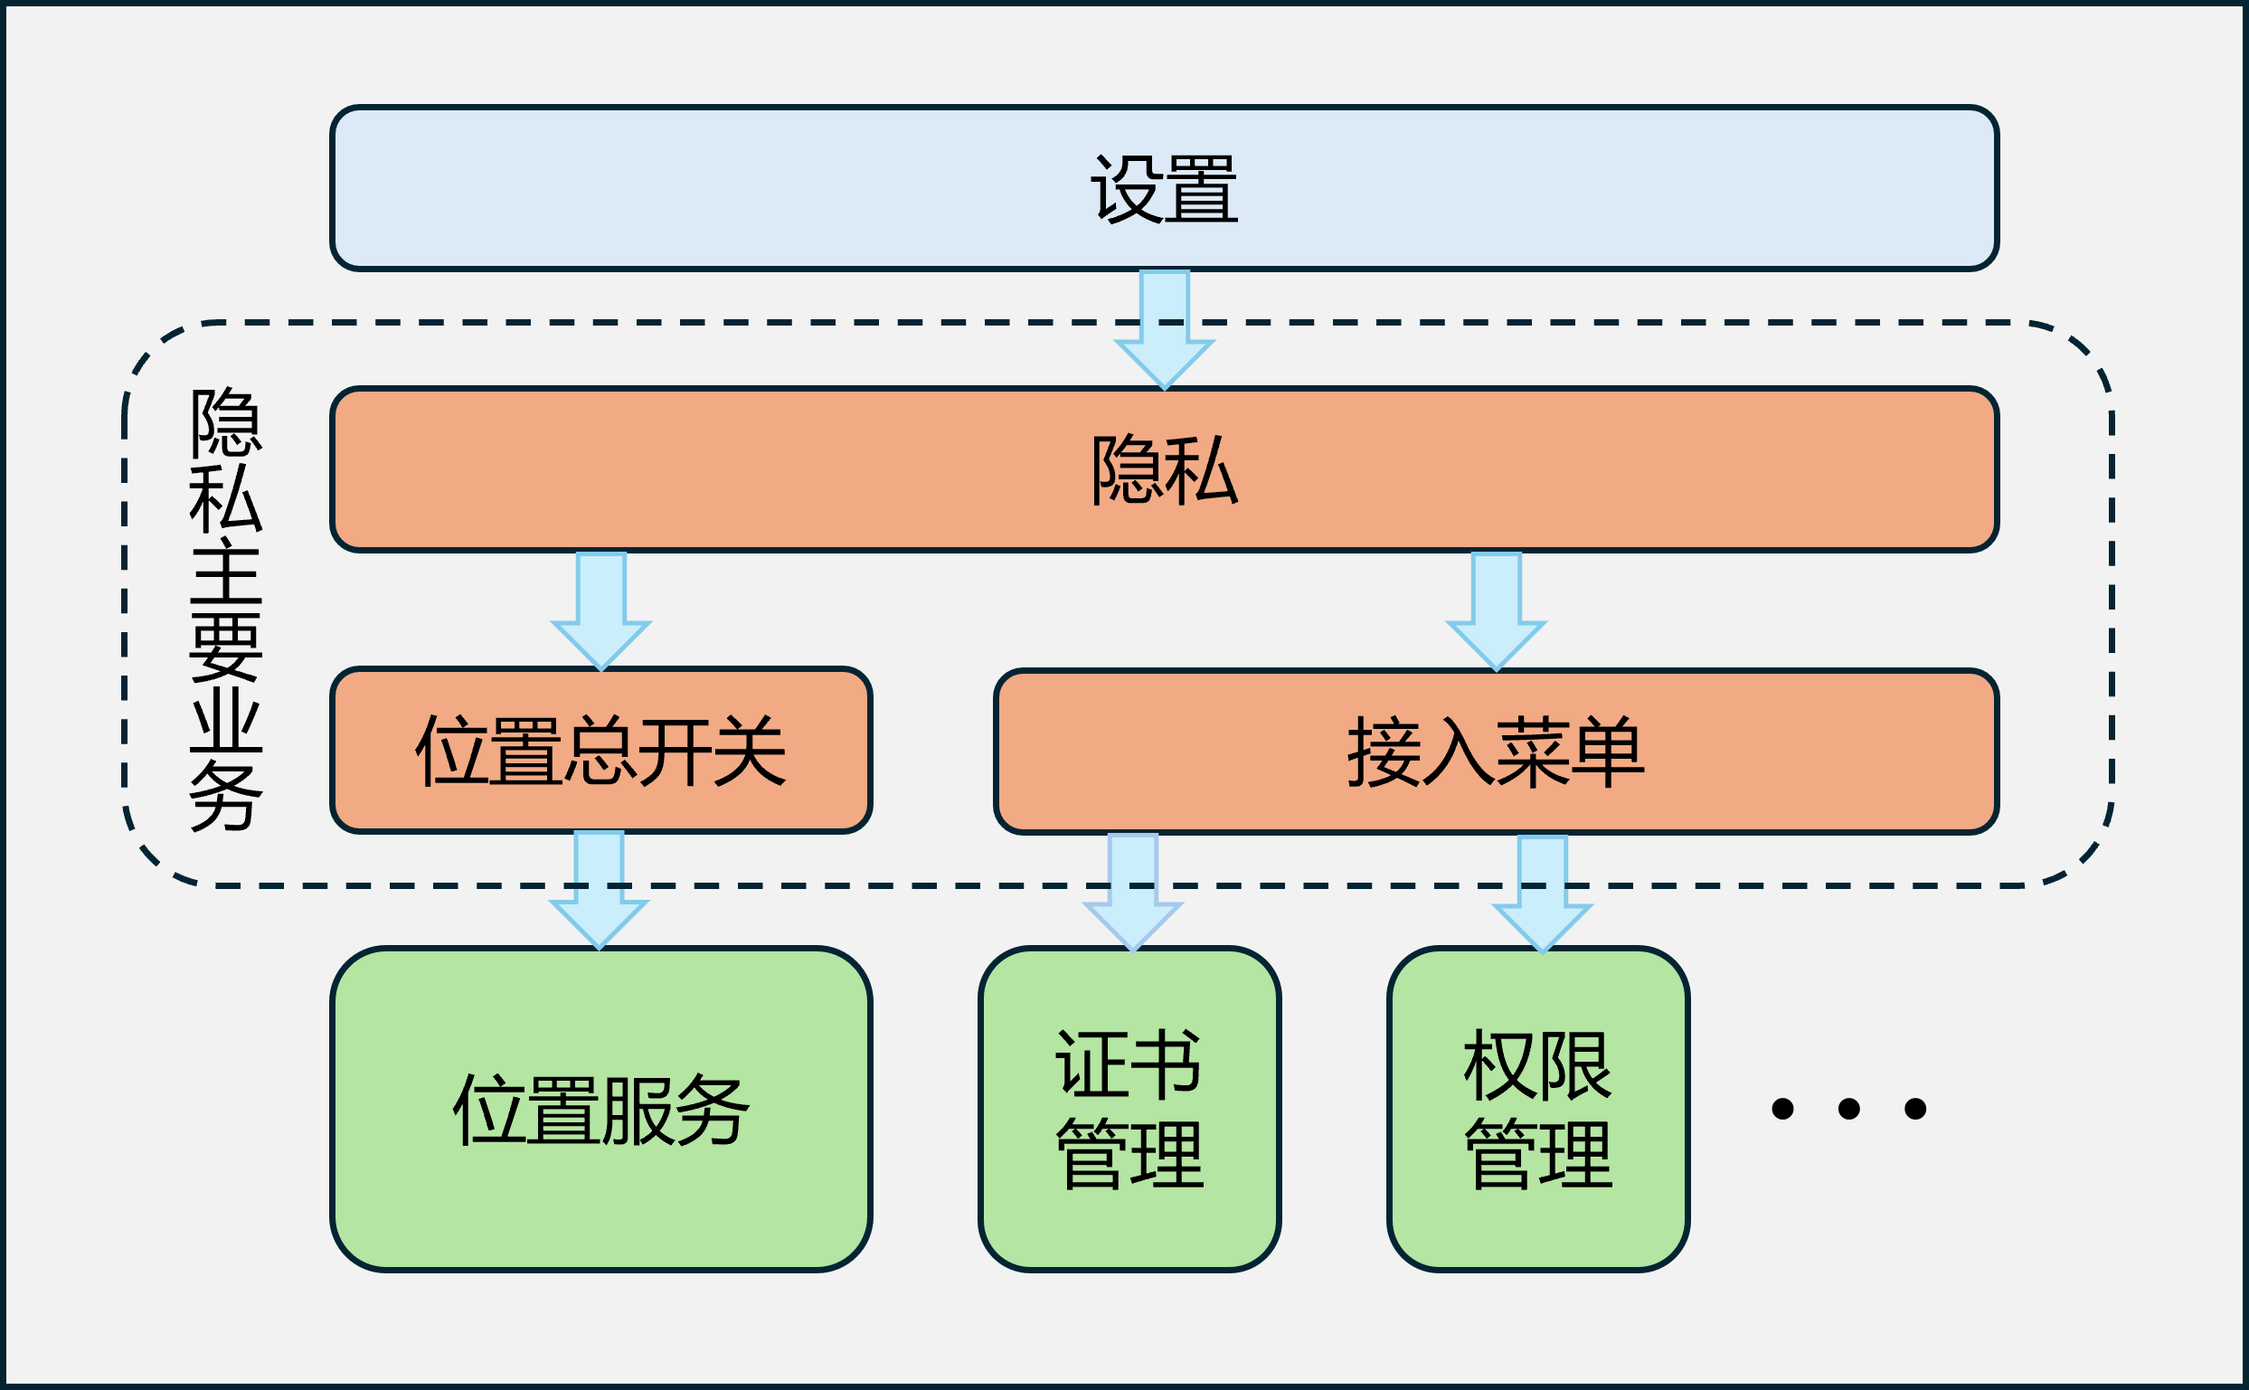
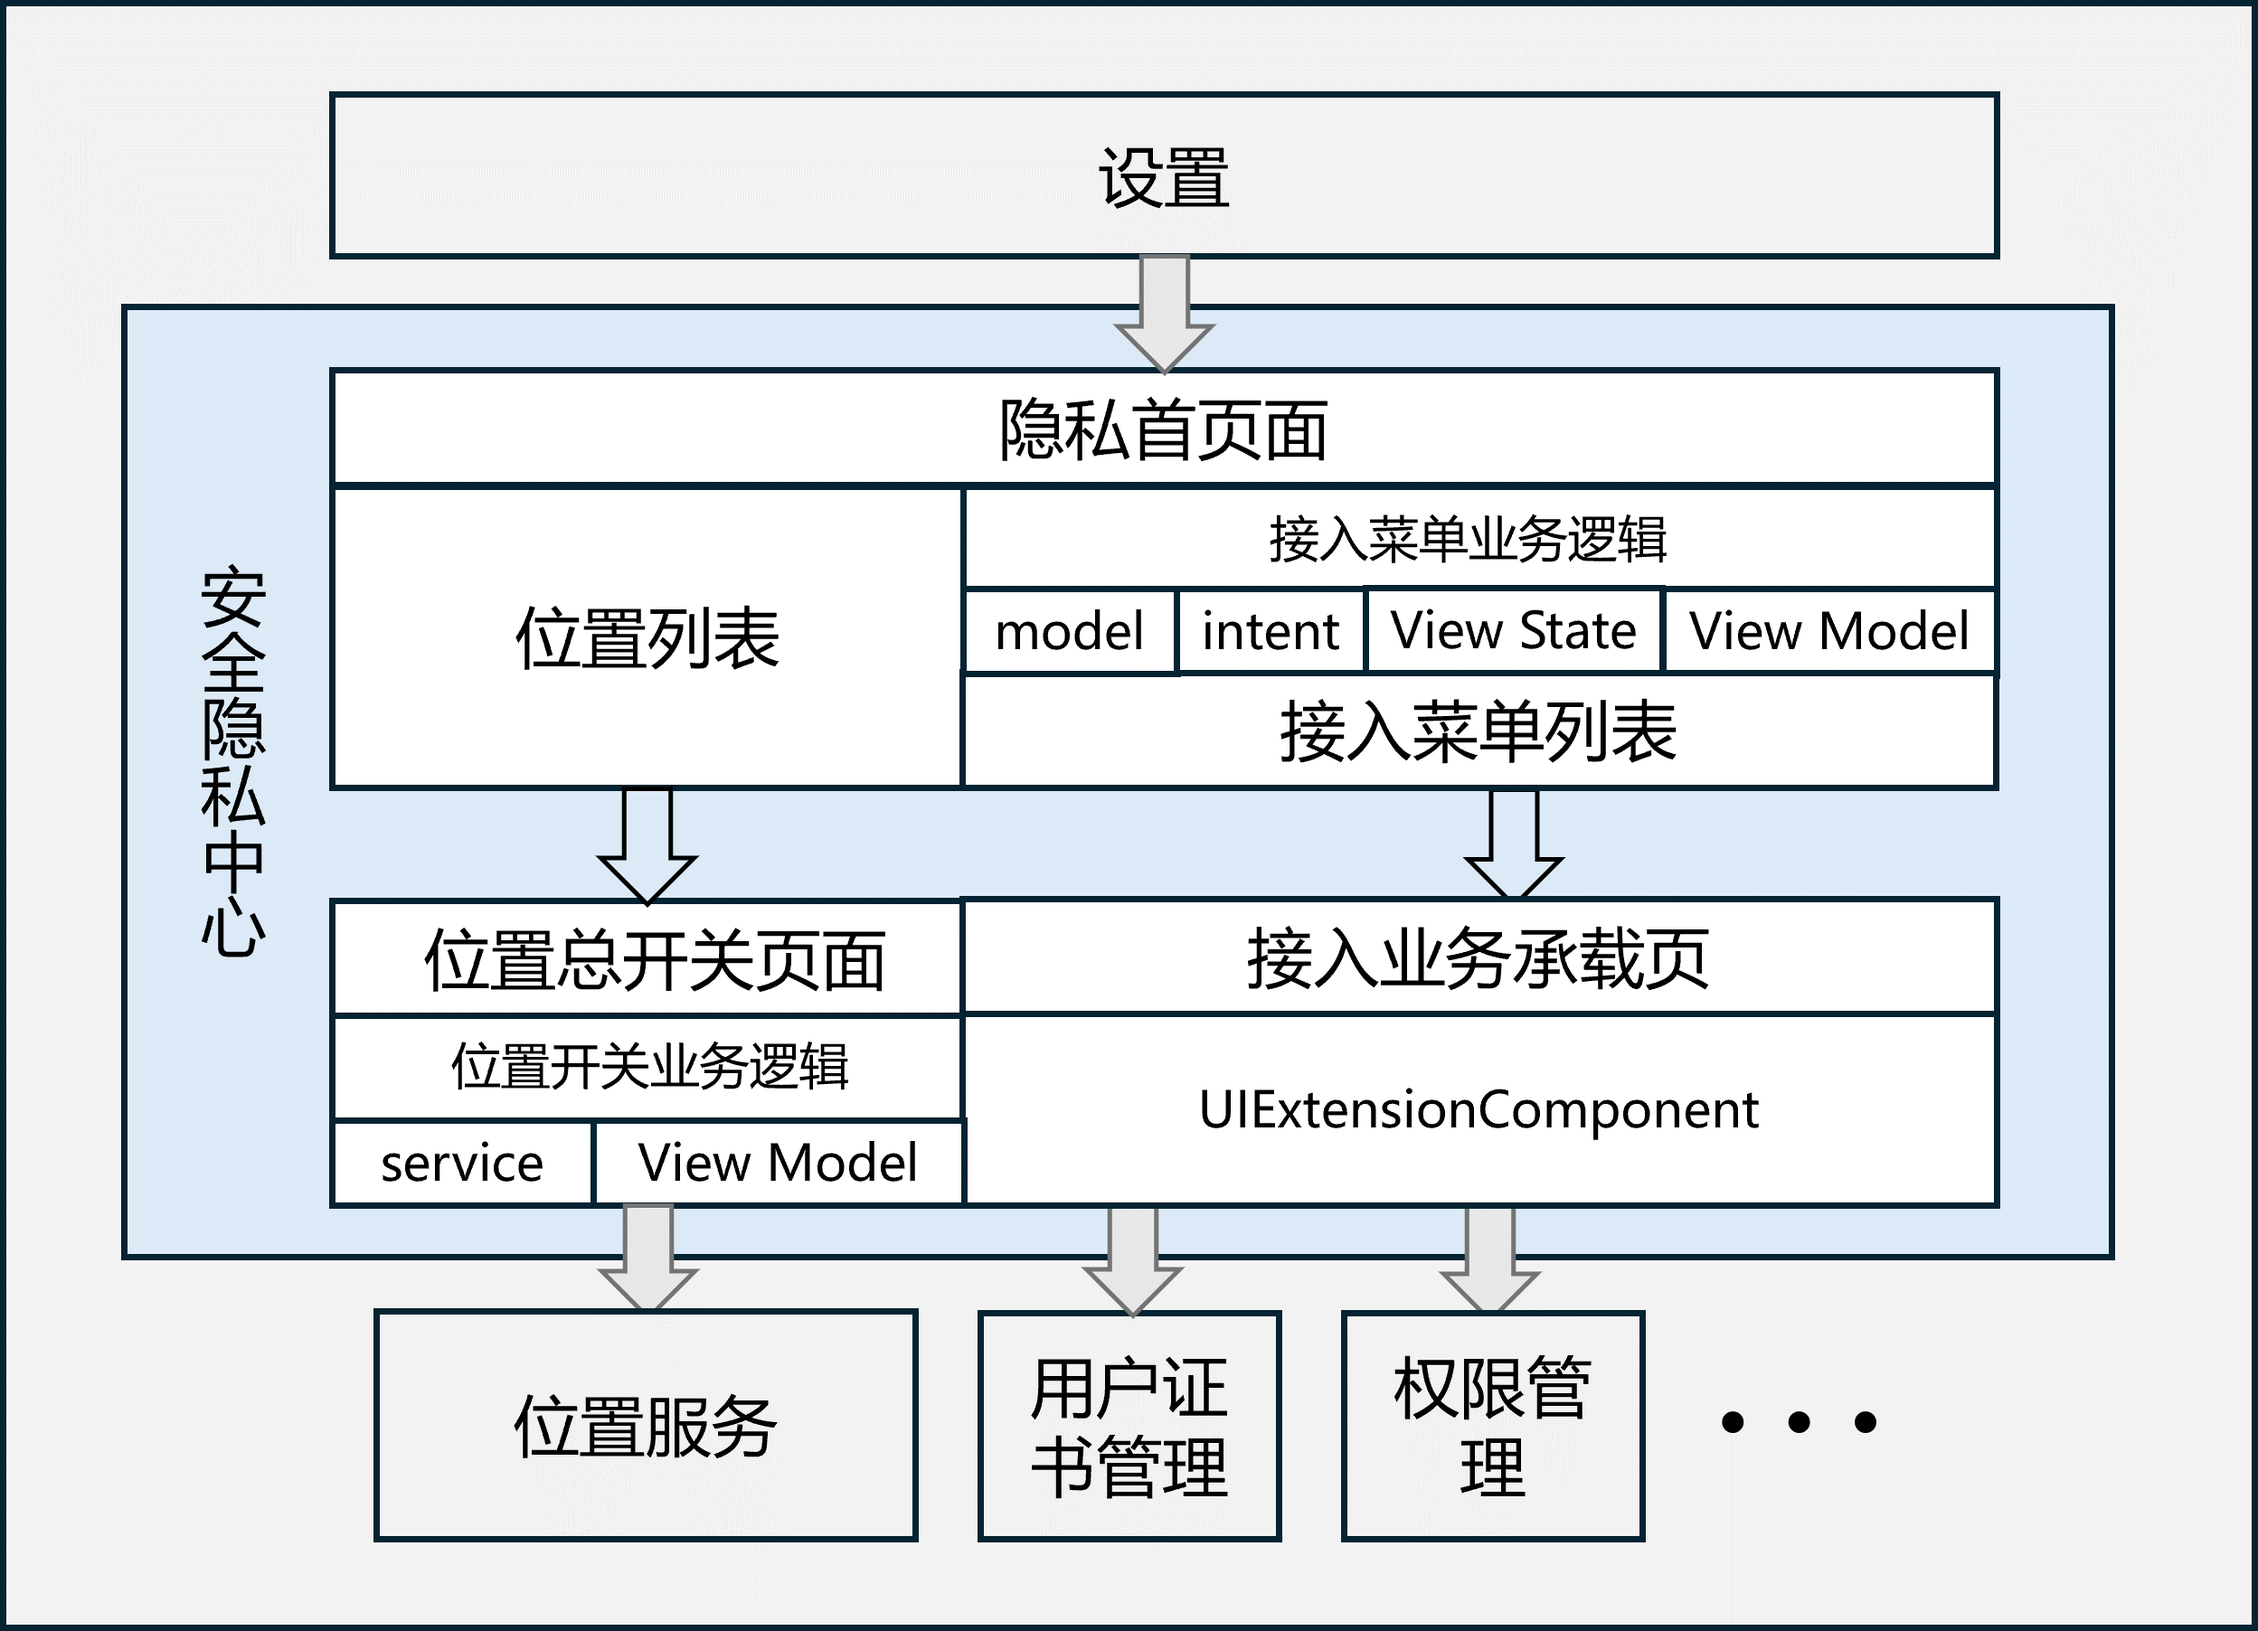
0109 update README

diff --git a/README.md b/README.md
@@ -1,4 +1,4 @@
-# 隐私部件
+# 安全隐私中心
 
 - [简介](#简介)
 - [目录](#目录)
@@ -8,9 +8,9 @@
 
 ## 简介
 
-隐私是OpenHarmony上向用户提供位置总开关管理功能以及给一些隐私权限相关的应用提供入口的一个部件。
+安全隐私中心是OpenHarmony上向用户提供位置总开关管理功能以及给一些隐私权限相关的应用提供入口的一个部件。
 
-隐私页面位于“设置”应用中的“隐私”菜单中，主要包含如下两个部分：
+安全隐私中心页面位于“设置”应用中的“隐私”菜单中，主要包含如下两个部分：
 
 - 位置总开关管理页面：用户可以在这里管理设备的位置服务总开关。
 - 隐私权限相关接入应用入口列表：展示一个菜单列表，用于给一些应用提供入口。应用按照使用说明中的指导进行配置，隐私就会在页面上展示出一个入口，用户可以从这里点击进入。
@@ -23,18 +23,44 @@
 
 ```
 /security_privacy_center/
-├── AppScope									# 应用配置
-└── entry
-        └── src
-            └── main
-                ├── ets							# 代码目录
-                │   ├── common					# 子组件及工具类实现
-                │   ├── entryability			# Ability类实现
-                │   ├── main					# 功能类实现
-                │   ├── model					# model类及位置信息类功能实现 
-                │   ├── pages				    # 接入菜单页面及位置信息页面展示实现
-                │   └── view					# 具体应用接入页面展示实现
-                └── resources					# 资源文件目录
+├─AppScope                                              # 应用级配置信息   
+├─entry 
+│  ├─build-profile.json5                                # 模块级构建配置文件
+│  ├─hvigorfile.ts                                      # 编译构建任务脚本
+│  ├─oh-package.json5                                   # 依赖库配置文件
+│  └─src
+│      ├─main
+│      │  ├─module.json5                                # 模块级配置文件
+│      │  ├─ets                                         # 源码目录
+│      │  │  ├─common
+│      │  │  │  ├─base                                  # MVI架构基类 
+│      │  │  │  ├─bean                                  # 实例对象目录
+│      │  │  │  ├─components                            # 公共组件目录
+│      │  │  │  ├─constants                             # 常量类目录      
+│      │  │  │  └─utils                                 # 工具类目录       
+│      │  │  ├─entryability
+│      │  │  │      EntryAbility.ets                    # 应用入口ability文件 
+│      │  │  ├─main
+│      │  │  │  └─auto_menu                             # 接入菜单相关业务逻辑目录      
+│      │  │  ├─model
+│      │  │  │  ├─bundleInfo                            # 应用包信息业务处理目录  
+│      │  │  │  └─locationServicesImpl                  # 位置总开关相关业务逻辑目录  
+│      │  │  ├─pages
+│      │  │  │   ├─Index.ets                            # 隐私中心首页面布局
+│      │  │  │   ├─locationServices.ets                 # 位置总开关页面
+│      │  │  │   └─UiExtensionPage.ets                  # 接入菜单接入方承载页面
+│      │  │  └─view
+│      │  │      └─privacy
+│      │  │              PrivacyProtectionListView.ets  # 首页接入菜单列表组件       
+│      │  └─resources                                   # 应用字串、图标资源目录     
+│      └─ohosTest                                       # 测试用例代码目录           
+├─hvigor                                                # 编译构建文件  
+├─build-profile.json5                                   # 工程级构建配置文件
+├─hvigorfile.ts                                         # 编译构建任务脚本
+├─LICENSE                                               # 许可文件
+├─oh-package.json5                                      # 依赖库配置文件
+├─signature                                             # 应用签名相关文件
+└─README.md
 ```
 
 ## 编译构建
